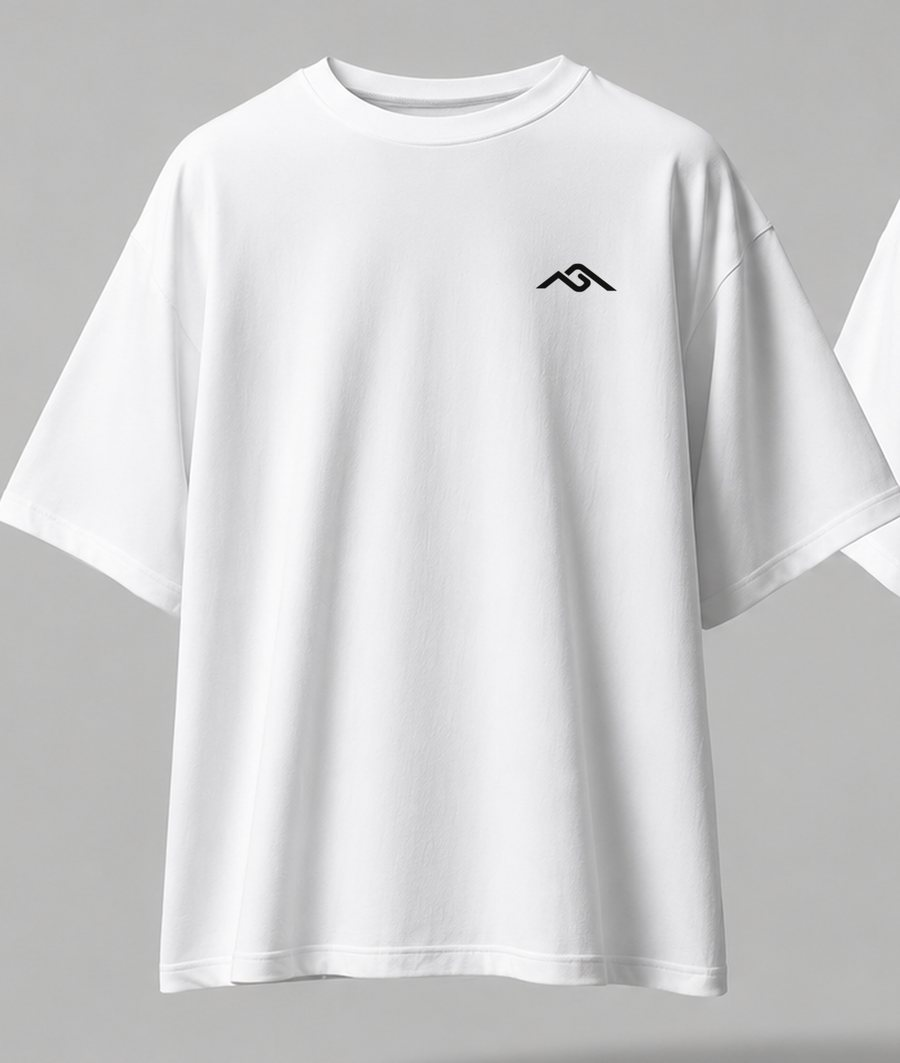
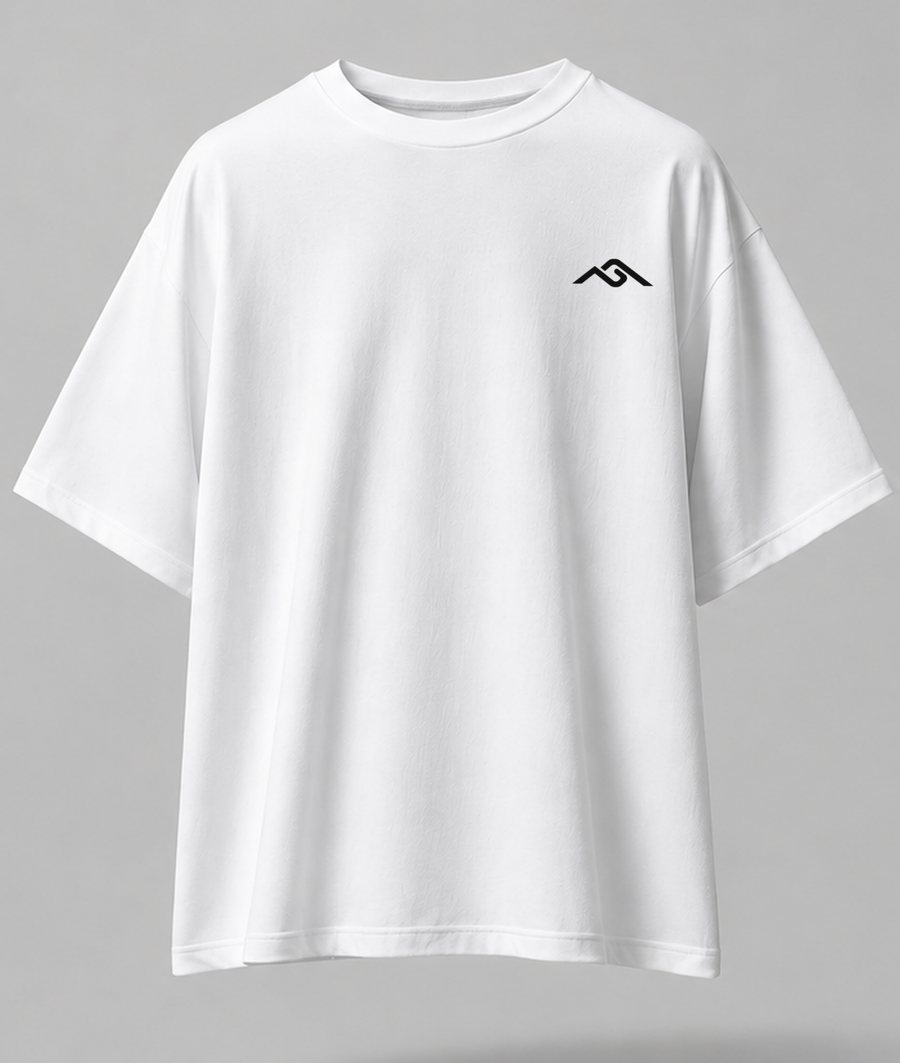
Мерч: новое фото футболок без наложения рукавов, «Горы на спине» выше, «Вся спина» первой
Claude-Session: https://claude.ai/code/session_01SPoCcjko6hFD1cJ7R4qeHZ

diff --git a/p/merch.html b/p/merch.html
@@ -145,10 +145,10 @@
      detail — крупный план или фото на человеке. Сейчас стоят макеты: графика наложена на фото футболки (папка img/merch/). Пустая строка — серый прямоугольник «фото». */
   var M = 'https://vanodotcom.github.io/svyazka-site/img/merch/';
   var GRAPHICS = [
+    {name:'Вся спина', img:M+'g5-obe.jpg', front:M+'g5-pered.jpg', back:M+'g5-spina.jpg', detail:M+'g5-krupno.jpg'},
     {name:'Я в Связке', img:M+'g4-obe.jpg', front:M+'g4-pered.jpg', back:'', detail:M+'g4-krupno.jpg'},
     {name:'Знак', img:M+'g1-obe.jpg', front:M+'g1-pered.jpg', back:'', detail:M+'g1-krupno.jpg'},
-    {name:'Горы на спине', img:M+'g2-obe.jpg', front:M+'g2-pered.jpg', back:M+'g2-spina.jpg', detail:M+'g2-krupno.jpg'},
-    {name:'Вся спина', img:M+'g5-obe.jpg', front:M+'g5-pered.jpg', back:M+'g5-spina.jpg', detail:M+'g5-krupno.jpg'}
+    {name:'Горы на спине', img:M+'g2-obe.jpg', front:M+'g2-pered.jpg', back:M+'g2-spina.jpg', detail:M+'g2-krupno.jpg'}
   ];
   /* ===== ПРАВИТЬ: размеры и обмеры в сантиметрах (A — ширина под проймой, B — длина по переду, C — рукав, D — плечо).
      Размерная сетка оверсайз-футболки Моспошив. */
